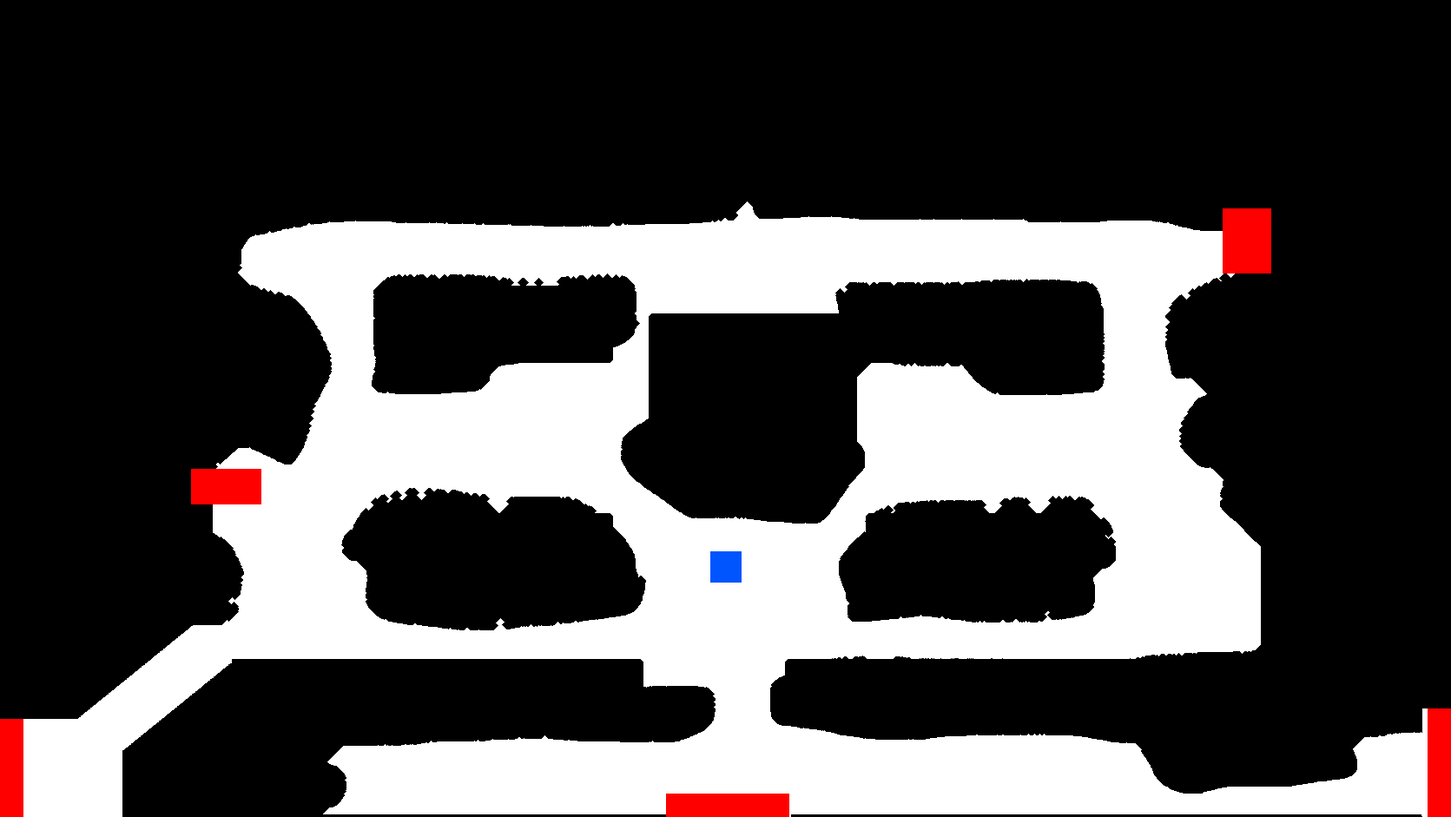
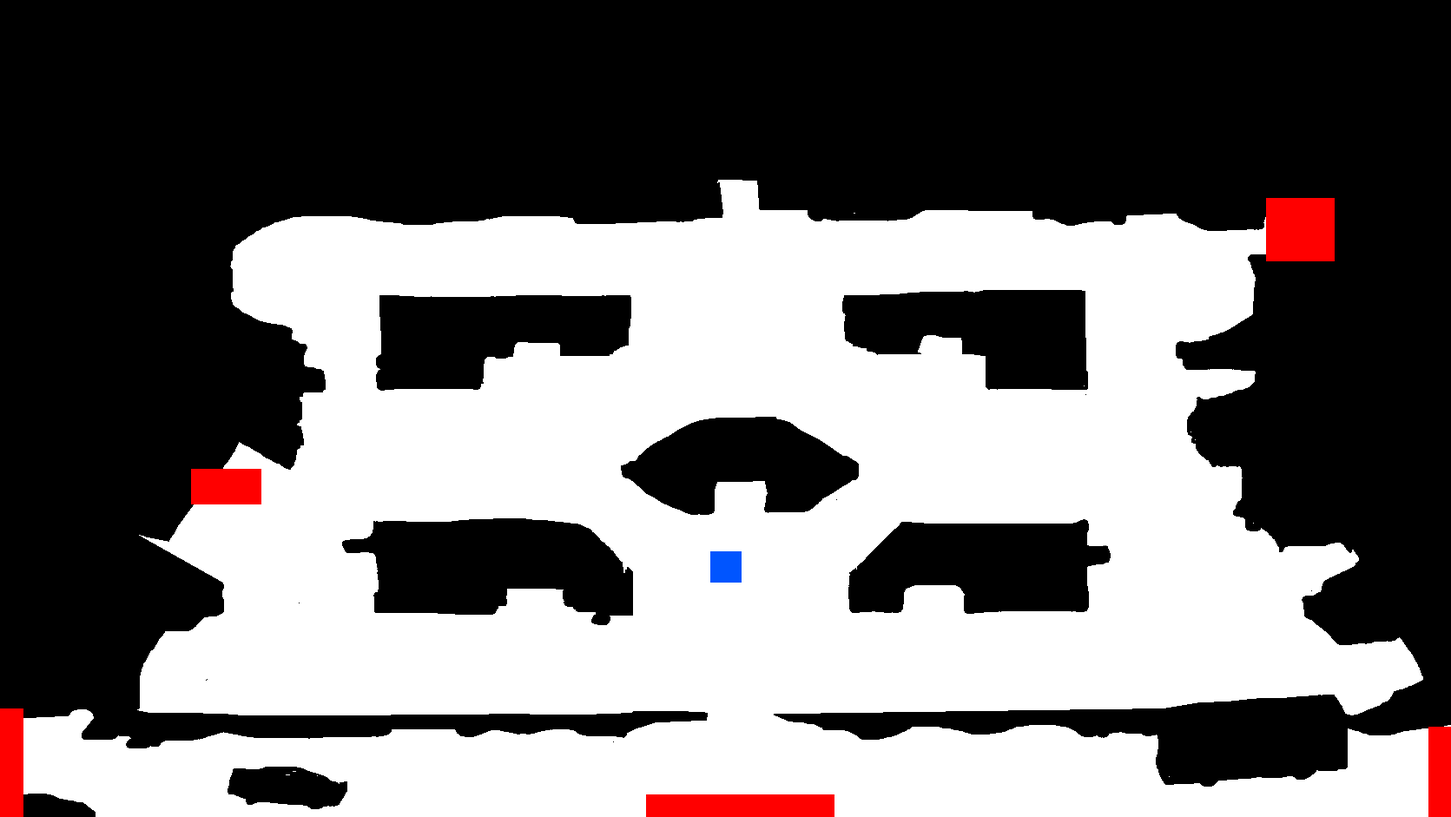
5 mapas pintados más y Sofía siempre en Plaza de Mayo durante su misión
Mapas con capas de Thiriang: Plaza de Mayo, Plaza del Congreso y los 3 del PvP
(campamento azul, campamento rojo, ruinas y búnkeres). Salidas sobre sus líneas verdes.
Congreso se une con Av. Rivadavia por la calle de arriba.

Sofía (buena) solo aparecía 20 minutos de cada hora; ahora siempre está cuando
la misión te manda a hablar con ella.

Claude-Session: https://claude.ai/code/session_01VGCmBo3CsU2Xq1dNwQVK9W

diff --git a/www/cenizas-maps.js b/www/cenizas-maps.js
@@ -14,7 +14,7 @@ window.CZ_MAPS = {
   patio: {"name": "PATIO FERROVIARIO · CABALLITO", "img": "/a/m/patio.jpg", "mask": "/a/m/patio-mask.png", "w": 1670, "h": 941, "dark": 0.46, "lv": [8, 14], "spawn": [732, 523], "exits": [{"id": "haedo", "r": [6, 384, 24, 504], "to": "interHaedo", "toExit": "patio", "label": "INTERSECCIÓN DE HAEDO", "side": "l"}, {"id": "once", "r": [1251, 837, 1669, 940], "to": "estOnce", "toExit": "patio", "label": "ESTACIÓN ONCE", "side": "d"}, {"id": "x1", "r": [831, 255, 918, 348], "to": "complejo8c", "toExit": "salida", "label": "COMPLEJO 8C"}, {"id": "x2", "r": [1527, 312, 1638, 336], "to": "modulo3", "toExit": "salida", "label": "MÓDULO FERROVIARIO 3", "side": "r"}, {"id": "x3", "r": [0, 606, 26, 786], "to": "modulo2", "toExit": "oeste", "label": "MÓDULO FERROVIARIO 2", "side": "l"}], "mobs": {"errante": 4, "corredor": 2, "perro": 2, "sombra": 2}, "spawnFijo": true, "npcs": [{"k": "arshi", "nm": "ARSHI", "line": "Armas probadas. Bueno, casi todas.", "shop": [["cuchillo", 8], ["bate", 10], ["lanza", 14], ["pistola", 25], ["katana", 40]], "x": 1411, "y": 419, "act": null, "fac": null}, {"k": "azu", "nm": "AZU", "line": "No preguntes de dónde salieron.", "x": 1489, "y": 449, "act": null, "fac": null}, {"k": "jem", "nm": "JEM", "line": "Perdí mi credencial cuando nos atacaron. Si la ves...", "quest": {"id": "jem_cred", "need": {"credencial": 1}, "give": {"items": {"katana": 1}}, "txt": "Un Corredor se llevó mi credencial. Traémela.", "done": "Gracias. Llevate esto, a mí ya no me sirve."}, "x": 627, "y": 418, "act": null, "fac": null}, {"k": "renzo", "nm": "RENZO", "line": "Sam, no te alejes.", "x": 700, "y": 439, "act": null, "fac": null}, {"k": "sam", "nm": "SAM", "line": "Estoy bien, Renzo.", "x": 762, "y": 428, "act": null, "fac": null}], "occ": [[557, 243, 30, 123, 365, 0], [847, 252, 86, 124, 375, 125], [618, 384, 27, 14, 397, 251], [1071, 272, 38, 162, 433, 267], [372, 370, 236, 75, 444, 431], [934, 378, 307, 229, 606, 508], [0, 267, 555, 400, 666, 739], [0, 684, 151, 132, 815, 1141], [182, 775, 101, 45, 819, 1275], [347, 748, 47, 167, 914, 1322], [389, 815, 530, 126, 940, 1491]], "occTop": true},
   estOnce: {"name": "ESTACIÓN ONCE", "img": "/a/m/estOnce.jpg", "mask": "/a/m/estOnce-mask.png", "w": 1672, "h": 941, "dark": 0.4, "lv": [10, 16], "spawn": [829, 497], "exits": [{"id": "patio", "r": [0, 357, 26, 672], "to": "patio", "toExit": "once", "label": "PATIO FERROVIARIO", "side": "l"}, {"id": "riv", "r": [1362, 708, 1671, 940], "to": "rivadavia", "toExit": "once", "label": "AV. RIVADAVIA", "side": "r"}, {"id": "x1", "r": [192, 495, 309, 546], "to": "subte_arena", "toExit": "salida", "label": "SUBTE · ARENA SUBTERRÁNEA"}], "mobs": {"errante": 4, "corredor": 2, "perro": 2, "sombra": 2}, "spawnFijo": true, "npcs": [{"k": "laura", "nm": "LAURA", "line": "¡Shh! Están cerca. No veo nada acá abajo.", "quest": {"id": "laura_luz", "need": {"linterna": 1}, "give": {"items": {"pista": 1}, "xp": 80}, "txt": "Necesito una linterna para salir de acá.", "done": "Gracias. Vi esto tirado cerca de los andenes."}, "x": 191, "y": 385, "act": null, "fac": null}], "occ": [[551, 407, 84, 56, 462, 0], [682, 390, 114, 116, 505, 58], [493, 504, 5, 30, 533, 176], [801, 490, 71, 52, 541, 208], [537, 512, 6, 34, 545, 262], [579, 524, 8, 34, 557, 298], [626, 538, 5, 27, 564, 334], [399, 175, 1067, 401, 575, 363], [703, 557, 7, 33, 589, 766], [751, 571, 8, 32, 602, 801], [801, 585, 6, 36, 620, 835], [846, 597, 8, 36, 632, 873], [897, 610, 9, 35, 644, 911], [1255, 610, 83, 52, 661, 948], [944, 433, 94, 237, 669, 1002], [1030, 523, 211, 193, 715, 1241], [0, 269, 533, 507, 775, 1436], [1314, 719, 77, 60, 778, 1945], [1380, 512, 191, 270, 781, 2007], [291, 745, 90, 54, 798, 2279], [738, 662, 377, 195, 856, 2335], [418, 615, 187, 245, 859, 2532], [644, 856, 36, 43, 898, 2779], [818, 905, 19, 22, 926, 2824], [1497, 714, 175, 227, 940, 2848], [869, 881, 119, 60, 940, 3077]], "occTop": true},
   rivadavia: {"name": "AV. RIVADAVIA · ONCE", "img": "/a/m/rivadavia.jpg", "mask": "/a/m/rivadavia-mask.png", "w": 1672, "h": 941, "dark": 0.38, "lv": [11, 17], "spawn": [836, 784], "exits": [{"id": "congreso", "r": [333, 915, 1308, 940], "to": "congreso", "toExit": "riv", "label": "PLAZA DEL CONGRESO", "side": "d"}, {"id": "once", "r": [1305, 270, 1353, 384], "to": "estOnce", "toExit": "riv", "label": "ESTACIÓN ONCE"}, {"id": "p1", "r": [462, 258, 519, 378], "to": null, "label": "CAMINO PELIGROSO"}], "mobs": {"errante": 4, "corredor": 2, "perro": 2, "sombra": 2}, "spawnFijo": true, "npcs": [{"k": "luis", "nm": "LUIS", "line": "Pasá, que hay de todo.", "shop": [["vendas", 3], ["pilas", 2], ["linterna", 12], ["mascara", 18]], "x": 522, "y": 627, "act": null, "fac": null}, {"k": "toby", "nm": "TOBÍAS", "line": "Lo que necesites, lo conseguimos.", "x": 574, "y": 700, "act": null, "fac": null}], "occ": [[1161, 181, 151, 79, 259, 0], [534, 237, 51, 24, 260, 81], [976, 260, 18, 40, 299, 107], [689, 266, 21, 34, 299, 149], [1155, 284, 3, 20, 303, 185], [1032, 285, 4, 20, 304, 207], [1004, 272, 4, 34, 305, 229], [564, 281, 6, 25, 305, 265], [1108, 284, 4, 22, 305, 292], [745, 285, 5, 21, 305, 316], [647, 281, 5, 26, 306, 339], [940, 284, 4, 25, 308, 367], [790, 285, 4, 24, 308, 394], [520, 281, 6, 29, 309, 420], [893, 285, 3, 25, 309, 451], [908, 375, 71, 50, 424, 478], [530, 145, 830, 336, 480, 530], [599, 550, 22, 41, 590, 868], [609, 632, 6, 34, 665, 911], [1051, 634, 5, 32, 665, 947], [1060, 699, 7, 31, 729, 981], [595, 690, 26, 46, 735, 1014], [452, 500, 178, 404, 903, 1062], [1038, 546, 163, 382, 927, 1468]], "occTop": true},
-  congreso: {"name": "PLAZA DEL CONGRESO", "img": "/a/m/congreso.jpg", "mask": "/a/m/congreso-mask.png", "w": 1671, "h": 941, "dark": 0.4, "lv": [13, 20], "spawn": [634, 596], "exits": [{"id": "express", "r": [1644, 136, 1670, 223], "to": "express", "toExit": "congreso", "label": "ESQUINA EXPRESS", "side": "r"}, {"id": "riv", "r": [301, 0, 345, 26], "to": "rivadavia", "toExit": "congreso", "label": "AV. RIVADAVIA", "side": "u"}, {"id": "x1", "r": [0, 756, 26, 940], "to": null, "toExit": null, "label": "CAMINO PELIGROSO", "side": "l"}, {"id": "x2", "r": [1644, 780, 1670, 940], "to": null, "toExit": null, "label": "CAMINO PELIGROSO", "side": "r"}, {"id": "x3", "r": [685, 914, 1079, 940], "to": null, "toExit": null, "label": "CAMINO PELIGROSO", "side": "d"}], "mobs": {"errante": 4, "corredor": 2, "perro": 2, "sombra": 2}, "spawnFijo": true, "npcs": [{"k": "cin", "nm": "CINTIA", "line": "La resistencia necesita pruebas.", "fac": "rebel", "quest": {"id": "congreso_pistas", "need": {"pista_reb": 5}, "give": {"items": {"chaleco": 1}, "coins": 60}, "txt": "Juntá 5 pistas rebeldes y te equipamos.", "done": "Con esto vas a aguantar más que nosotros."}, "x": 455, "y": 342, "act": null}, {"k": "romina", "nm": "ROMINA", "line": "No confíes en nadie que venga del puerto.", "fac": "rebel", "x": 602, "y": 403, "act": null}, {"k": "mariano", "nm": "MARIANO", "line": "Organizamos rutas para sacar gente.", "fac": "rebel", "x": 679, "y": 387, "act": null}], "occ": [[973, 138, 39, 32, 169, 0], [622, 157, 66, 34, 190, 34], [787, 163, 41, 42, 204, 70], [972, 166, 32, 58, 223, 114], [672, 177, 31, 47, 223, 174], [1007, 179, 27, 46, 224, 223], [403, 189, 45, 35, 223, 271], [1452, 190, 27, 67, 256, 308], [788, 192, 24, 42, 233, 377], [1163, 200, 38, 32, 231, 421], [341, 201, 24, 38, 238, 455], [517, 203, 31, 44, 246, 495], [395, 206, 42, 31, 236, 541], [365, 214, 44, 26, 239, 574], [803, 228, 25, 48, 275, 602], [1224, 233, 28, 50, 282, 652], [1151, 244, 31, 40, 283, 704], [990, 261, 39, 28, 288, 746], [322, 324, 40, 35, 358, 776], [1179, 342, 41, 27, 368, 813], [337, 365, 38, 35, 399, 842], [927, 393, 43, 41, 433, 879], [836, 430, 39, 26, 455, 922], [1434, 451, 23, 78, 528, 950], [190, 533, 39, 43, 575, 1030], [1160, 605, 35, 29, 633, 1075], [641, 625, 44, 24, 648, 1106], [265, 705, 30, 46, 750, 1132], [1061, 713, 24, 41, 753, 1180], [157, 725, 44, 26, 750, 1223], [227, 738, 32, 48, 785, 1251], [291, 766, 42, 26, 791, 1301], [683, 775, 83, 31, 805, 1329], [591, 784, 88, 23, 806, 1362], [1043, 785, 43, 31, 815, 1387], [382, 846, 54, 32, 877, 1420], [461, 859, 28, 50, 908, 1454], [447, 903, 31, 38, 940, 1506]]},
+  congreso: {"name": "PLAZA DEL CONGRESO", "img": "/a/m/congreso.jpg", "mask": "/a/m/congreso-mask.png", "w": 1671, "h": 941, "dark": 0.4, "lv": [13, 20], "spawn": [634, 596], "exits": [{"id": "express", "r": [1645, 63, 1670, 258], "to": "express", "toExit": "congreso", "label": "ESQUINA EXPRESS", "side": "r"}, {"id": "riv", "r": [708, 0, 1113, 26], "to": "rivadavia", "toExit": "congreso", "label": "AV. RIVADAVIA", "side": "u"}, {"id": "p1", "r": [0, 63, 26, 228], "to": null, "label": "CAMINO PELIGROSO"}, {"id": "p2", "r": [0, 744, 26, 915], "to": null, "label": "CAMINO PELIGROSO"}, {"id": "p3", "r": [1645, 783, 1670, 936], "to": null, "label": "CAMINO PELIGROSO"}, {"id": "p4", "r": [687, 915, 1089, 940], "to": null, "label": "CAMINO PELIGROSO"}], "mobs": {"errante": 4, "corredor": 2, "perro": 2, "sombra": 2}, "spawnFijo": true, "npcs": [{"k": "cin", "nm": "CINTIA", "line": "La resistencia necesita pruebas.", "fac": "rebel", "quest": {"id": "congreso_pistas", "need": {"pista_reb": 5}, "give": {"items": {"chaleco": 1}, "coins": 60}, "txt": "Juntá 5 pistas rebeldes y te equipamos.", "done": "Con esto vas a aguantar más que nosotros."}, "x": 455, "y": 342, "act": null}, {"k": "romina", "nm": "ROMINA", "line": "No confíes en nadie que venga del puerto.", "fac": "rebel", "x": 602, "y": 403, "act": null}, {"k": "mariano", "nm": "MARIANO", "line": "Organizamos rutas para sacar gente.", "fac": "rebel", "x": 679, "y": 387, "act": null}], "occ": [[1020, 6, 23, 80, 85, 0], [768, 16, 16, 72, 87, 82], [1374, 89, 104, 23, 111, 156], [1133, 117, 201, 47, 163, 181], [430, 195, 41, 33, 227, 230], [352, 191, 64, 59, 249, 265], [0, 0, 326, 253, 252, 326], [1533, 97, 138, 164, 260, 581], [1403, 161, 72, 104, 264, 747], [963, 144, 431, 126, 269, 853], [480, 111, 434, 170, 280, 981], [668, 281, 41, 128, 408, 1153], [273, 268, 101, 163, 430, 1283], [745, 311, 336, 169, 479, 1448], [1059, 483, 25, 38, 520, 1619], [1437, 402, 41, 129, 530, 1659], [450, 516, 149, 27, 542, 1790], [1251, 518, 157, 26, 543, 1819], [141, 487, 121, 99, 585, 1847], [1463, 614, 5, 33, 646, 1948], [588, 497, 244, 182, 678, 1983], [402, 629, 34, 65, 693, 2167], [972, 502, 281, 300, 801, 2234], [286, 705, 43, 98, 802, 2536], [724, 676, 43, 131, 806, 2636], [1204, 792, 5, 16, 807, 2769], [1436, 790, 7, 20, 809, 2787], [344, 792, 7, 18, 809, 2809], [1087, 793, 6, 17, 809, 2829], [400, 791, 9, 20, 810, 2848], [1292, 792, 6, 20, 811, 2870], [458, 793, 5, 19, 811, 2892], [781, 794, 5, 18, 811, 2913], [154, 739, 117, 74, 812, 2933], [576, 793, 9, 20, 812, 3009], [1184, 793, 6, 20, 812, 3031], [594, 730, 130, 88, 817, 3053], [1330, 804, 69, 15, 818, 3143], [0, 861, 708, 80, 940, 3160], [1067, 888, 604, 53, 940, 3242]], "occTop": true},
   express: {"name": "ESQUINA EXPRESS", "img": "/a/m/express.jpg", "mask": "/a/m/express-mask.png", "w": 1671, "h": 941, "dark": 0.4, "lv": [15, 22], "spawn": [732, 575], "exits": [{"id": "estatua", "r": [735, 0, 842, 26], "to": "estatua", "toExit": "abajo", "label": "LA ESTATUA", "side": "u"}, {"id": "congreso", "r": [1644, 794, 1670, 843], "to": "congreso", "toExit": "express", "label": "PLAZA DEL CONGRESO", "side": "r"}, {"id": "portena", "r": [1644, 462, 1670, 590], "to": "portena", "toExit": "express", "label": "INTERSECCIÓN PORTEÑA", "side": "r"}, {"id": "x1", "r": [1644, 248, 1670, 363], "to": null, "toExit": null, "label": "CAMINO PELIGROSO", "side": "r"}, {"id": "x2", "r": [0, 716, 26, 844], "to": null, "toExit": null, "label": "CAMINO PELIGROSO", "side": "l"}], "mobs": {"errante": 4, "corredor": 2, "perro": 2, "sombra": 2}, "spawnFijo": true, "npcs": [{"k": "gusty", "nm": "GUSTI", "line": "Tengo lo que buscás. Seguro.", "shop": [["campera", 12], ["chaleco", 25], ["cigarrillo", 4], ["vendas", 3]], "x": 1045, "y": 548, "act": null, "fac": null}], "occ": [[407, 705, 186, 118, 822, 0], [434, 853, 155, 84, 936, 120], [831, 445, 107, 54, 498, 206], [966, 320, 155, 84, 403, 262], [850, 64, 57, 84, 147, 348], [1222, 365, 75, 106, 470, 434], [482, 347, 37, 81, 427, 542], [701, 907, 30, 19, 925, 625], [1363, 435, 46, 22, 456, 646], [1427, 735, 23, 107, 841, 670], [1354, 365, 50, 78, 442, 779], [880, 291, 85, 51, 341, 859], [237, 530, 51, 91, 620, 912], [826, 207, 62, 38, 244, 1005], [1362, 769, 66, 61, 829, 1045], [751, 797, 56, 85, 881, 1108], [621, 153, 95, 54, 206, 1195], [1296, 742, 60, 32, 773, 1251], [177, 789, 36, 88, 876, 1285], [506, 289, 85, 47, 335, 1375], [438, 504, 97, 98, 601, 1424], [770, 183, 47, 90, 272, 1524], [48, 732, 48, 24, 755, 1616], [96, 725, 48, 19, 743, 1642], [96, 872, 48, 27, 898, 1663], [144, 714, 48, 18, 731, 1692], [144, 874, 48, 22, 895, 1712], [192, 700, 48, 12, 711, 1736], [384, 593, 48, 17, 609, 1750], [432, 593, 48, 43, 635, 1769], [528, 308, 48, 13, 320, 1814], [816, 36, 48, 203, 238, 1829], [1296, 772, 48, 19, 790, 2034], [1344, 838, 48, 61, 898, 2055], [1392, 840, 48, 14, 853, 2118], [1488, 495, 48, 189, 683, 2134], [1536, 507, 48, 202, 708, 2325], [1584, 573, 48, 220, 792, 2529], [1632, 591, 39, 203, 793, 2751]]},
   estatua: {"name": "LA ESTATUA", "img": "/a/m/estatua.jpg", "mask": "/a/m/estatua-mask.png", "w": 1672, "h": 941, "dark": 0.4, "lv": [17, 25], "spawn": [1045, 523], "exits": [{"id": "abajo", "r": [991, 914, 1298, 940], "to": "express", "toExit": "estatua", "label": "ESQUINA EXPRESS", "side": "d"}, {"id": "mayo", "r": [0, 0, 26, 55], "to": "plazaMayo", "toExit": "estatua", "label": "PLAZA DE MAYO", "side": "l"}, {"id": "x1", "r": [849, 0, 1191, 26], "to": null, "toExit": null, "label": "CAMINO PELIGROSO", "side": "u"}, {"id": "x2", "r": [1645, 345, 1671, 468], "to": null, "toExit": null, "label": "CAMINO PELIGROSO", "side": "r"}, {"id": "x3", "r": [1645, 565, 1671, 604], "to": null, "toExit": null, "label": "CAMINO PELIGROSO", "side": "r"}, {"id": "x4", "r": [0, 701, 26, 843], "to": null, "toExit": null, "label": "CAMINO PELIGROSO", "side": "l"}], "mobs": {"errante": 4, "corredor": 2, "perro": 2, "sombra": 2}, "spawnFijo": true, "occ": [[759, 479, 183, 222, 700, 0], [629, 657, 146, 127, 783, 224], [934, 657, 146, 127, 783, 353], [254, 676, 128, 73, 748, 482], [381, 515, 69, 89, 603, 557], [1325, 690, 46, 46, 735, 648], [1136, 382, 73, 49, 430, 696], [811, 486, 99, 61, 546, 747], [1263, 338, 69, 89, 426, 810], [116, 666, 20, 80, 745, 901], [275, 419, 22, 34, 452, 983], [242, 257, 14, 34, 290, 1019], [1478, 528, 36, 51, 578, 1055], [571, 258, 39, 67, 324, 1108], [1377, 536, 50, 80, 615, 1177], [264, 350, 68, 38, 387, 1259], [194, 760, 46, 92, 851, 1299], [144, 816, 45, 36, 851, 1393], [1126, 52, 24, 79, 130, 1431], [563, 817, 78, 48, 864, 1512], [207, 195, 25, 42, 236, 1562], [0, 481, 48, 220, 700, 1606], [48, 494, 48, 220, 713, 1828], [96, 496, 48, 220, 715, 2050], [144, 493, 48, 220, 712, 2272], [240, 310, 48, 94, 403, 2494], [240, 427, 48, 158, 584, 2590], [288, 497, 48, 45, 541, 2750], [1152, 142, 48, 220, 361, 2797], [1392, 679, 48, 134, 812, 3019], [1488, 586, 48, 40, 625, 3155], [1536, 574, 48, 33, 606, 3197], [1584, 575, 48, 31, 605, 3232]]},
   portena: {"name": "INTERSECCIÓN PORTEÑA", "img": "/a/m/portena.jpg", "mask": "/a/m/portena-mask.png", "w": 1670, "h": 941, "dark": 0.4, "lv": [16, 23], "spawn": [418, 497], "exits": [{"id": "express", "r": [592, 0, 858, 26], "to": "express", "toExit": "portena", "label": "ESQUINA EXPRESS", "side": "u"}, {"id": "estatua", "r": [1318, 0, 1545, 26], "to": "estatua", "toExit": "abajo", "label": "LA ESTATUA", "side": "u"}, {"id": "urbano", "r": [496, 914, 1040, 940], "to": "urbanoBA", "toExit": "portena", "label": "CUADRA PORTEÑA", "side": "d"}, {"id": "x1", "r": [0, 425, 26, 654], "to": null, "toExit": null, "label": "CAMINO PELIGROSO", "side": "l"}, {"id": "x2", "r": [1643, 459, 1669, 729], "to": null, "toExit": null, "label": "CAMINO PELIGROSO", "side": "r"}], "mobs": {"errante": 4, "corredor": 2, "perro": 2, "sombra": 2}, "spawnFijo": true, "occ": [[1178, 511, 185, 95, 605, 0], [596, 356, 49, 42, 397, 97], [125, 353, 71, 60, 412, 141], [1413, 551, 98, 65, 615, 203], [889, 329, 56, 82, 410, 270], [952, 331, 56, 82, 412, 354], [611, 125, 41, 77, 201, 438], [223, 529, 37, 83, 611, 517], [1288, 691, 73, 41, 731, 602], [1141, 204, 102, 114, 317, 645], [467, 711, 58, 93, 803, 761], [524, 309, 78, 58, 366, 856], [794, 307, 65, 49, 355, 916], [1336, 660, 75, 48, 707, 967], [1389, 383, 16, 42, 424, 1017], [971, 669, 129, 66, 734, 1061], [1264, 176, 64, 39, 214, 1129], [1204, 675, 74, 55, 729, 1170], [132, 586, 66, 45, 630, 1227], [0, 655, 48, 18, 672, 1274], [48, 651, 48, 15, 665, 1294], [96, 652, 48, 21, 672, 1311], [576, 42, 48, 167, 208, 1334], [576, 304, 48, 16, 319, 1503], [816, 27, 48, 17, 43, 1521], [816, 84, 48, 42, 125, 1540], [816, 203, 48, 16, 218, 1584], [816, 274, 48, 69, 342, 1602], [960, 833, 48, 15, 847, 1673], [1008, 750, 48, 161, 910, 1690], [1056, 742, 48, 131, 872, 1853], [1056, 896, 48, 33, 928, 1986], [1200, 95, 48, 169, 263, 2021], [1248, 85, 48, 137, 221, 2192], [1296, 125, 48, 11, 135, 2331], [1296, 148, 48, 18, 165, 2344], [1392, 339, 48, 70, 408, 2364], [1440, 252, 48, 220, 471, 2436], [1488, 265, 48, 220, 484, 2658], [1536, 254, 48, 220, 473, 2880], [1632, 431, 38, 28, 458, 3102]]},
@@ -22,7 +22,7 @@ window.CZ_MAPS = {
   esperanza: {"fire": [1379, 575], "name": "ESQUINA DEL FUEGO", "img": "/a/m/esperanza.jpg", "mask": "/a/m/esperanza-mask.png", "w": 1672, "h": 941, "dark": 0.44, "lv": [20, 28], "spawn": [627, 627], "exits": [{"id": "urbano", "r": [1358, 0, 1481, 26], "to": "urbanoBA", "toExit": "esperanza", "label": "CUADRA PORTEÑA", "side": "u"}, {"id": "abandono", "r": [341, 914, 1033, 940], "to": "abandono", "toExit": "esperanza", "label": "ESQUINA DEL PORTÓN", "side": "d"}, {"id": "x1", "r": [0, 425, 26, 614], "to": "bar_humo", "toExit": "salida", "label": "BAR DE HUMO", "side": "l"}, {"id": "x2", "r": [1645, 661, 1671, 845], "to": null, "toExit": null, "label": "CAMINO PELIGROSO", "side": "r"}], "mobs": {"errante": 3, "corredor": 3, "sombra": 3, "denso": 1, "rastrero": 2}, "spawnFijo": true, "npcs": [{"k": "mariela", "nm": "MARIELA", "line": "¿Fumás?", "quest": {"id": "fuego_puchos", "need": {"cigarrillo": 3}, "give": {"items": {"mascara": 1}}, "txt": "Traenos 3 cigarrillos y te damos algo útil.", "done": "Tomá, con esto respirás mejor en los túneles."}, "x": 679, "y": 601, "act": null, "fac": null}, {"k": "carolina", "nm": "CAROLINA", "line": "Acá por lo menos hay fuego.", "x": 752, "y": 616, "act": null, "fac": null}], "occ": [[153, 743, 81, 45, 787, 0], [1310, 605, 129, 53, 657, 47], [306, 678, 41, 76, 753, 102], [1208, 257, 74, 92, 348, 180], [265, 691, 34, 47, 737, 274], [429, 513, 47, 76, 588, 323], [1243, 533, 47, 74, 606, 401], [827, 456, 58, 28, 483, 477], [340, 511, 44, 70, 580, 507], [270, 523, 32, 48, 570, 579], [1149, 371, 82, 39, 409, 629], [41, 703, 107, 51, 753, 670], [1335, 644, 53, 37, 680, 723], [0, 382, 48, 17, 398, 762], [48, 498, 48, 27, 524, 781], [192, 791, 48, 126, 916, 810], [240, 742, 48, 168, 909, 938], [288, 527, 48, 33, 559, 1108], [288, 742, 48, 171, 912, 1143], [336, 532, 48, 35, 566, 1316], [336, 836, 48, 39, 874, 1353], [336, 899, 48, 15, 913, 1394], [384, 500, 48, 13, 512, 1411], [384, 536, 48, 38, 573, 1426], [432, 545, 48, 16, 560, 1466], [432, 780, 48, 14, 793, 1484], [432, 842, 48, 60, 901, 1500], [480, 895, 48, 19, 913, 1562], [528, 900, 48, 14, 913, 1583], [576, 891, 48, 23, 913, 1599], [816, 865, 48, 49, 913, 1624], [864, 415, 48, 33, 447, 1675], [864, 875, 48, 39, 913, 1710], [1152, 468, 48, 56, 523, 1751], [1200, 404, 48, 163, 566, 1809], [1248, 369, 48, 220, 588, 1974], [1296, 379, 48, 220, 598, 2196], [1344, 410, 48, 220, 629, 2418], [1344, 779, 48, 73, 851, 2640], [1392, 425, 48, 220, 644, 2715], [1392, 664, 48, 44, 707, 2937], [1440, 439, 48, 220, 658, 2983], [1488, 437, 48, 220, 656, 3205], [1488, 694, 48, 20, 713, 3427], [1584, 689, 48, 40, 728, 3449], [1584, 825, 48, 52, 876, 3491], [1584, 906, 48, 18, 923, 3545], [1632, 630, 40, 31, 660, 3565], [1632, 846, 40, 43, 888, 3598], [1632, 910, 40, 20, 929, 3643]]},
   abandono: {"name": "ESQUINA DEL PORTÓN", "img": "/a/m/abandono.jpg", "mask": "/a/m/abandono-mask.png", "w": 1672, "h": 941, "dark": 0.46, "lv": [22, 30], "spawn": [836, 784], "exits": [{"id": "esperanza", "r": [1645, 648, 1671, 940], "to": "esperanza", "toExit": "abandono", "label": "ESQUINA DEL FUEGO", "side": "r"}, {"id": "lezama", "r": [240, 914, 679, 940], "to": "lezama", "toExit": "abandono", "label": "PARQUE LEZAMA", "side": "d"}], "mobs": {"errante": 3, "corredor": 3, "sombra": 3, "denso": 1, "rastrero": 2}, "spawnFijo": true, "npcs": [{"k": "ani", "nm": "ANI", "line": "Lanzas y una capa que te hace desaparecer. ¿Qué querés?", "cada": true, "shop": [["lanza", 12], ["kitsune", 20]], "x": 470, "y": 595, "act": null, "fac": null}]},
   lezama: {"name": "PARQUE LEZAMA · CAMPAMENTO ORK", "img": "/a/m/lezama.jpg", "mask": "/a/m/lezama-mask.png", "w": 1671, "h": 941, "dark": 0.42, "lv": [26, 34], "spawn": [784, 627], "exits": [{"id": "abandono", "r": [730, 914, 884, 940], "to": "abandono", "toExit": "lezama", "label": "ESQUINA DEL PORTÓN", "side": "d"}, {"id": "x1", "r": [1322, 914, 1397, 940], "to": "campo_ruinas", "toExit": "oeste", "label": "CAMPAMENTO EN RUINAS", "side": "d"}], "mobs": {"errante": 3, "corredor": 3, "sombra": 3, "denso": 1, "rastrero": 2}, "spawnFijo": true, "occ": [[209, 231, 450, 206, 436, 0], [1138, 572, 228, 110, 681, 208], [1247, 413, 199, 106, 518, 320], [965, 438, 124, 80, 517, 428], [448, 660, 87, 34, 693, 510], [714, 38, 183, 88, 125, 546], [1026, 511, 87, 34, 544, 636], [1143, 673, 87, 34, 706, 672], [742, 163, 75, 55, 217, 708], [1631, 266, 39, 52, 317, 765], [145, 243, 57, 102, 344, 819], [1540, 392, 28, 67, 458, 923], [1455, 448, 39, 51, 498, 992], [759, 332, 79, 87, 418, 1045], [690, 741, 56, 34, 774, 1134], [1285, 694, 77, 63, 756, 1170], [1465, 617, 81, 98, 714, 1235], [649, 86, 45, 76, 161, 1335], [705, 403, 50, 40, 442, 1413], [933, 540, 29, 85, 624, 1455], [727, 47, 52, 31, 77, 1542], [311, 567, 43, 90, 656, 1575], [96, 398, 48, 145, 542, 1667], [144, 426, 48, 104, 529, 1814], [240, 238, 48, 41, 278, 1920], [240, 511, 48, 82, 592, 1963], [288, 516, 48, 11, 526, 2047], [288, 550, 48, 73, 622, 2060], [336, 534, 48, 100, 633, 2135], [384, 537, 48, 92, 628, 2237], [432, 570, 48, 41, 610, 2331], [576, 144, 48, 34, 177, 2374], [624, 69, 48, 18, 86, 2410], [624, 157, 48, 26, 182, 2430], [672, 234, 48, 49, 282, 2458], [672, 763, 48, 174, 936, 2509], [720, 239, 48, 47, 285, 2685], [720, 440, 48, 66, 505, 2734], [720, 806, 48, 14, 819, 2802], [768, 420, 48, 87, 506, 2818], [816, 446, 48, 30, 475, 2907], [864, 421, 48, 50, 470, 2939], [864, 740, 48, 121, 860, 2991], [864, 888, 48, 22, 909, 3114], [912, 325, 48, 12, 336, 3138], [912, 569, 48, 41, 609, 3152], [960, 226, 48, 133, 358, 3195], [960, 559, 48, 47, 605, 3330], [1008, 562, 48, 59, 620, 3379], [1056, 579, 48, 34, 612, 3440], [1152, 718, 48, 21, 738, 3476], [1344, 835, 48, 11, 845, 3499], [1392, 769, 48, 103, 871, 3512], [1440, 507, 48, 53, 559, 3617], [1488, 504, 48, 60, 563, 3672], [1536, 491, 48, 66, 556, 3734], [1584, 410, 48, 151, 560, 3802], [1632, 383, 39, 195, 577, 3955]]},
-  plazaMayo: {"name": "PLAZA DE MAYO", "img": "/a/m/plazaMayo.jpg", "mask": "/a/m/plazaMayo-mask.png", "w": 1671, "h": 941, "dark": 0.36, "lv": [18, 24], "spawn": [836, 653], "exits": [{"id": "muelle", "r": [1408, 240, 1463, 314], "to": "muelle", "toExit": "mayo", "label": "CAMPAMENTO DEL MUELLE"}, {"id": "nueve", "r": [767, 914, 908, 940], "to": "nueveJulio", "toExit": "mayo", "label": "AV. 9 DE JULIO", "side": "d"}, {"id": "refugio", "r": [0, 828, 26, 940], "to": "refugioSub", "toExit": "mayo", "label": "REFUGIO SUBTERRÁNEO", "side": "l"}, {"id": "estatua", "r": [1644, 816, 1670, 940], "to": "estatua", "toExit": "mayo", "label": "LA ESTATUA", "side": "r"}, {"id": "bar", "r": [220, 540, 300, 580], "to": "bar_rojo", "toExit": "salida", "label": "BAR DE LUZ ROJA"}], "safeAll": true, "npcs": [{"k": "rosa", "x": 1097, "y": 727, "nm": "ROSA", "line": "Elegí bien, chico.", "act": "shop", "fac": null}, {"k": "sofia_buena", "nm": "SOFÍA", "line": "¡No me dejes! ¡No me dejes!", "cada": true, "x": 522, "y": 501, "act": null, "fac": null}], "mobs": {}, "spawnFijo": true, "occ": [[1067, 250, 131, 138, 387, 0], [460, 256, 138, 144, 399, 140], [681, 263, 47, 61, 323, 286], [985, 271, 30, 74, 344, 349], [658, 274, 34, 76, 349, 425], [1018, 304, 28, 52, 355, 503], [680, 306, 31, 59, 364, 557], [820, 319, 74, 147, 465, 618], [996, 354, 46, 43, 396, 767], [815, 410, 49, 58, 467, 812], [1091, 484, 134, 99, 582, 872], [465, 481, 137, 62, 542, 973], [372, 490, 73, 80, 569, 1037], [1260, 510, 36, 29, 538, 1119], [1236, 516, 64, 94, 609, 1150], [550, 533, 53, 69, 601, 1246], [465, 536, 49, 70, 605, 1317], [412, 558, 28, 51, 608, 1389], [379, 568, 54, 74, 641, 1442], [538, 592, 27, 46, 637, 1518], [508, 621, 40, 26, 646, 1566], [319, 671, 53, 35, 705, 1594], [198, 672, 137, 140, 811, 1631], [1338, 684, 58, 45, 728, 1773], [1408, 684, 34, 41, 724, 1820], [1422, 707, 40, 48, 754, 1863], [1344, 711, 28, 43, 753, 1913], [987, 714, 64, 30, 743, 1958], [1019, 734, 51, 43, 776, 1990], [1405, 734, 43, 26, 759, 2035], [1339, 736, 81, 25, 760, 2063], [977, 737, 58, 37, 773, 2090], [694, 748, 58, 24, 771, 2129], [753, 748, 73, 51, 798, 2155], [593, 756, 59, 24, 779, 2208], [529, 757, 73, 23, 779, 2234], [451, 758, 56, 25, 782, 2259], [661, 777, 70, 24, 800, 2286], [449, 788, 126, 24, 811, 2312], [407, 789, 52, 24, 812, 2338], [277, 790, 65, 23, 812, 2364], [330, 790, 74, 23, 812, 2389]]},
+  plazaMayo: {"name": "PLAZA DE MAYO", "img": "/a/m/plazaMayo.jpg", "mask": "/a/m/plazaMayo-mask.png", "w": 1671, "h": 941, "dark": 0.36, "lv": [18, 24], "spawn": [836, 653], "exits": [{"id": "muelle", "r": [1458, 228, 1536, 300], "to": "muelle", "toExit": "mayo", "label": "CAMPAMENTO DEL MUELLE"}, {"id": "nueve", "r": [744, 915, 960, 940], "to": "nueveJulio", "toExit": "mayo", "label": "AV. 9 DE JULIO", "side": "d"}, {"id": "refugio", "r": [0, 816, 26, 940], "to": "refugioSub", "toExit": "mayo", "label": "REFUGIO SUBTERRÁNEO", "side": "l"}, {"id": "estatua", "r": [1645, 837, 1670, 940], "to": "estatua", "toExit": "mayo", "label": "LA ESTATUA", "side": "r"}, {"id": "bar", "r": [220, 540, 300, 580], "to": "bar_rojo", "toExit": "salida", "label": "BAR DE LUZ ROJA"}], "safeAll": true, "npcs": [{"k": "rosa", "x": 1097, "y": 727, "nm": "ROSA", "line": "Elegí bien, chico.", "act": "shop", "fac": null}, {"k": "sofia_buena", "nm": "SOFÍA", "line": "¡No me dejes! ¡No me dejes!", "cada": true, "x": 522, "y": 501, "act": null, "fac": null}], "mobs": {}, "spawnFijo": true, "occ": [[1451, 258, 87, 37, 294, 0], [976, 262, 277, 86, 347, 39], [435, 267, 295, 99, 365, 127], [1363, 310, 88, 84, 393, 228], [265, 328, 102, 99, 426, 314], [714, 350, 276, 187, 536, 415], [389, 506, 37, 117, 622, 604], [1251, 517, 36, 121, 637, 723], [428, 487, 300, 172, 658, 846], [975, 486, 281, 175, 660, 1020], [160, 608, 92, 63, 670, 1197], [1504, 630, 63, 60, 689, 1262], [888, 687, 754, 141, 827, 1324], [158, 686, 660, 143, 828, 1467], [268, 870, 130, 32, 901, 1612], [0, 876, 33, 64, 939, 1646], [28, 879, 47, 62, 940, 1712], [1582, 881, 89, 60, 940, 1776]], "occTop": true},
   refugioSub: {"fire": [867, 554], "name": "REFUGIO SUBTERRÁNEO", "img": "/a/m/refugioSub.jpg", "mask": "/a/m/refugioSub-mask.png", "w": 1670, "h": 942, "dark": 0.5, "lv": [20, 28], "spawn": [836, 732], "exits": [{"id": "mayo", "r": [0, 211, 26, 270], "to": "plazaMayo", "toExit": "refugio", "label": "PLAZA DE MAYO", "side": "l"}, {"id": "x1", "r": [1643, 135, 1669, 181], "to": null, "toExit": null, "label": "CAMINO PELIGROSO", "side": "r"}], "mobs": {"errante": 3, "corredor": 3, "sombra": 3, "denso": 1, "rastrero": 2}, "spawnFijo": true, "npcs": [{"k": "el_sabio", "nm": "EL SABIO", "line": "Hay residuos del tiempo en ese laboratorio. Traeme uno.", "quest": {"id": "sabio_frag", "need": {"fragmento": 1}, "give": {"ab": 1, "xp": 300}, "txt": "Traeme un fragmento temporal del laboratorio de Puerto Madero.", "done": "Cerrá los ojos. Ahora sabés algo que antes no sabías."}, "x": 673, "y": 656, "act": null, "fac": null}, {"k": "natsume", "nm": "NATSUME", "line": "Conocemos las rutas de mantenimiento.", "quest": {"id": "natsume_receptor", "need": {"receptor": 1}, "give": {"coins": 50, "items": {"pista": 1}}, "txt": "Necesitamos un receptor para escuchar las patrullas.", "done": "Ahora sabemos por dónde pasan. Tomá."}, "x": 1149, "y": 554, "act": null, "fac": null}, {"k": "rocio", "nm": "ROCÍO", "line": "La línea D se cayó hace años.", "x": 1222, "y": 575, "act": null, "fac": null}], "occ": [[921, 490, 50, 40, 529, 0], [1226, 579, 56, 71, 649, 42], [781, 685, 40, 32, 716, 115]]},
   nueveJulio: {"name": "AV. 9 DE JULIO · OBELISCO", "img": "/a/m/nueveJulio.jpg", "mask": "/a/m/nueveJulio-mask.png", "w": 1672, "h": 941, "dark": 0.42, "lv": [22, 30], "spawn": [418, 680], "exits": [{"id": "mayo", "r": [0, 436, 26, 500], "to": "plazaMayo", "toExit": "nueve", "label": "PLAZA DE MAYO", "side": "l"}, {"id": "teatro", "r": [1645, 177, 1671, 505], "to": "teatroAv", "toExit": "nueve", "label": "TEATRO SOBRE LA AVENIDA", "side": "r"}, {"id": "x1", "r": [0, 168, 26, 360], "to": null, "toExit": null, "label": "CAMINO PELIGROSO", "side": "l"}, {"id": "x2", "r": [0, 603, 26, 814], "to": null, "toExit": null, "label": "CAMINO PELIGROSO", "side": "l"}, {"id": "x3", "r": [1645, 604, 1671, 805], "to": null, "toExit": null, "label": "CAMINO PELIGROSO", "side": "r"}], "mobs": {"errante": 3, "corredor": 3, "sombra": 3, "denso": 1, "rastrero": 2}, "spawnFijo": true, "occ": [[761, 240, 155, 288, 527, 0], [653, 390, 105, 68, 457, 290], [606, 552, 174, 91, 642, 360], [929, 551, 174, 91, 641, 453], [916, 314, 160, 126, 439, 546], [812, 281, 71, 44, 324, 674], [1399, 558, 71, 44, 601, 720], [815, 505, 99, 56, 560, 766], [421, 757, 105, 68, 824, 824], [1376, 326, 89, 119, 444, 894], [943, 751, 105, 68, 818, 1015], [1498, 152, 34, 37, 188, 1085], [230, 511, 131, 68, 578, 1124], [401, 388, 48, 57, 444, 1194], [181, 749, 49, 50, 798, 1253], [499, 400, 76, 40, 439, 1305], [344, 218, 24, 113, 330, 1347], [1239, 212, 42, 118, 329, 1462], [813, 724, 104, 69, 792, 1582], [594, 754, 104, 70, 823, 1653], [371, 270, 74, 60, 329, 1725], [184, 415, 136, 119, 533, 1787], [1101, 500, 74, 57, 556, 1908], [0, 361, 48, 71, 431, 1967], [0, 512, 48, 91, 602, 2040], [48, 336, 48, 99, 434, 2133], [48, 505, 48, 111, 615, 2234], [96, 336, 48, 97, 432, 2347], [96, 506, 48, 110, 615, 2446], [144, 336, 48, 99, 434, 2558], [144, 506, 48, 110, 615, 2659], [192, 333, 48, 101, 433, 2771], [192, 504, 48, 124, 627, 2874], [240, 614, 48, 25, 638, 3000], [288, 334, 48, 97, 430, 3027], [288, 514, 48, 107, 620, 3126], [336, 335, 48, 100, 434, 3235], [336, 505, 48, 116, 620, 3337], [384, 334, 48, 97, 430, 3455], [384, 505, 48, 142, 646, 3554], [432, 333, 48, 100, 432, 3698], [432, 506, 48, 110, 615, 3800], [480, 334, 48, 101, 434, 3912], [480, 505, 48, 111, 615, 4015], [1152, 331, 48, 103, 433, 4128], [1152, 504, 48, 113, 616, 4233], [1200, 335, 48, 100, 434, 4348], [1200, 506, 48, 110, 615, 4450], [1248, 336, 48, 97, 432, 4562], [1248, 506, 48, 110, 615, 4661], [1296, 336, 48, 98, 433, 4773], [1296, 506, 48, 117, 622, 4873], [1344, 334, 48, 101, 434, 4992], [1344, 505, 48, 111, 615, 5095], [1344, 776, 48, 35, 810, 5208], [1392, 767, 48, 11, 777, 5245], [1488, 332, 48, 99, 430, 5258], [1488, 508, 48, 108, 615, 5359], [1536, 337, 48, 94, 430, 5469], [1536, 508, 48, 109, 616, 5565], [1584, 335, 48, 96, 430, 5676], [1584, 508, 48, 108, 615, 5774], [1632, 512, 40, 92, 603, 5884]]},
   teatroAv: {"name": "TEATRO SOBRE LA AVENIDA", "img": "/a/m/teatroAv.jpg", "mask": "/a/m/teatroAv-mask.png", "w": 1671, "h": 941, "dark": 0.42, "lv": [25, 33], "spawn": [836, 627], "exits": [{"id": "libertador", "r": [1644, 417, 1670, 849], "to": "libertador", "toExit": "teatro", "label": "CRUCE LIBERTADOR", "side": "r"}, {"id": "colonD", "r": [1270, 0, 1359, 26], "to": "colon", "toExit": "der", "label": "REFUGIO DEL COLÓN", "side": "u"}, {"id": "nueve", "r": [0, 411, 26, 754], "to": "nueveJulio", "toExit": "teatro", "label": "AV. 9 DE JULIO", "side": "l"}, {"id": "colonI", "r": [355, 0, 462, 26], "to": "colon", "toExit": "izq", "label": "REFUGIO DEL COLÓN", "side": "u"}, {"id": "x1", "r": [822, 914, 991, 940], "to": null, "toExit": null, "label": "CAMINO PELIGROSO", "side": "d"}, {"id": "teatro_int", "r": [780, 228, 900, 262], "to": "teatro_int", "toExit": "salida", "label": "TEATRO · INTERIOR"}], "mobs": {"errante": 3, "corredor": 3, "sombra": 3, "denso": 1, "rastrero": 2}, "spawnFijo": true, "occ": [[1221, 19, 45, 28, 46, 0], [1216, 45, 43, 66, 110, 30], [1255, 62, 47, 54, 115, 98], [1236, 96, 38, 41, 136, 154], [128, 183, 59, 50, 232, 197], [713, 346, 31, 52, 397, 249], [734, 372, 31, 39, 410, 303], [1038, 406, 38, 34, 439, 344], [1473, 436, 46, 24, 459, 380], [1436, 438, 50, 29, 466, 406], [1524, 438, 51, 42, 479, 437], [556, 441, 42, 25, 465, 481], [581, 446, 36, 44, 489, 508], [1163, 452, 45, 27, 478, 554], [0, 454, 41, 48, 501, 583], [519, 459, 26, 48, 506, 633], [1388, 459, 33, 38, 496, 683], [1468, 460, 69, 32, 491, 723], [1201, 461, 40, 79, 539, 757], [1303, 461, 41, 33, 493, 838], [1074, 462, 35, 56, 517, 873], [1142, 462, 31, 54, 515, 931], [1097, 463, 24, 46, 508, 987], [51, 466, 36, 77, 542, 1035], [1601, 466, 43, 41, 506, 1114], [667, 469, 28, 49, 517, 1157], [1388, 476, 81, 40, 515, 1208], [683, 477, 29, 41, 517, 1250], [1320, 479, 25, 38, 516, 1293], [1650, 480, 21, 59, 538, 1333], [1304, 486, 23, 37, 522, 1394], [520, 491, 47, 69, 559, 1433], [568, 493, 49, 61, 553, 1504], [1152, 499, 42, 59, 557, 1567], [667, 503, 25, 56, 558, 1628], [1082, 505, 29, 55, 559, 1686], [681, 516, 25, 42, 557, 1743], [1304, 516, 38, 48, 563, 1787], [1083, 542, 34, 29, 570, 1837], [539, 560, 48, 29, 588, 1868], [658, 630, 42, 34, 663, 1899], [631, 631, 43, 31, 661, 1935], [1289, 639, 69, 44, 682, 1968], [614, 643, 36, 39, 681, 2014], [682, 649, 28, 42, 690, 2055], [0, 654, 34, 37, 690, 2099], [1565, 663, 49, 116, 778, 2138], [613, 666, 26, 48, 713, 2256], [504, 667, 60, 64, 730, 2306], [551, 669, 39, 89, 757, 2372], [38, 672, 36, 51, 722, 2463], [784, 674, 37, 57, 730, 2516], [1076, 674, 33, 81, 754, 2575], [1592, 674, 25, 53, 726, 2658], [0, 677, 36, 79, 755, 2713], [360, 677, 25, 102, 778, 2794], [619, 677, 92, 88, 764, 2898], [1104, 681, 25, 91, 771, 2988], [1302, 681, 55, 76, 756, 3081], [774, 690, 27, 60, 749, 3159], [28, 703, 32, 58, 760, 3221], [1254, 703, 44, 73, 775, 3281], [48, 709, 26, 48, 756, 3356], [369, 709, 37, 63, 771, 3406], [1590, 711, 24, 49, 759, 3471], [790, 717, 26, 52, 768, 3522], [506, 719, 33, 39, 757, 3576], [520, 740, 31, 37, 776, 3617], [537, 741, 35, 33, 773, 3656], [771, 758, 47, 31, 788, 3691], [42, 761, 38, 28, 788, 3724]]},
@@ -44,9 +44,9 @@ window.CZ_MAPS = {
   modulo3: {"name": "MÓDULO FERROVIARIO 3", "img": "/a/m/modulo3.jpg", "mask": "/a/m/modulo3-mask.png", "w": 1672, "h": 941, "dark": 0.5, "lv": [28, 38], "spawn": [780, 660], "exits": [{"id": "vias", "r": [620, 0, 820, 26], "to": null, "toExit": null, "label": "CAMINO PELIGROSO", "side": "u"}, {"id": "oeste", "r": [0, 240, 26, 320], "to": "complejo8c", "toExit": "tunel", "label": "COMPLEJO 8C", "side": "l"}, {"id": "este", "r": [1645, 400, 1671, 500], "to": null, "toExit": null, "label": "CAMINO PELIGROSO", "side": "r"}, {"id": "salida", "r": [740, 914, 900, 940], "to": "patio", "toExit": "x2", "label": "PATIO FERROVIARIO", "side": "d"}]},
   arena_final: {"name": "INSTALACIÓN TEMPORAL", "img": "/a/m/arena_final.jpg", "mask": "/a/m/arena_final-mask.png", "w": 1672, "h": 941, "dark": 0.5, "lv": [44, 60], "spawn": [840, 700], "exits": [{"id": "rebelde", "r": [0, 380, 26, 540], "to": null, "toExit": null, "label": "CAMINO PELIGROSO", "side": "l"}, {"id": "ork", "r": [1645, 380, 1671, 540], "to": null, "toExit": null, "label": "CAMINO PELIGROSO", "side": "r"}, {"id": "salida", "r": [760, 914, 900, 940], "to": "bunker", "toExit": "x1", "label": "BÚNKER DE PUERTO MADERO", "side": "d"}]},
   teatro_int: {"name": "TEATRO · INTERIOR", "img": "/a/m/teatro_int.jpg", "mask": "/a/m/teatro_int-mask.png", "w": 1672, "h": 941, "dark": 0.48, "lv": [25, 33], "spawn": [850, 760], "exits": [{"id": "salida", "r": [780, 914, 920, 940], "to": "teatroAv", "toExit": "teatro_int", "label": "TEATRO SOBRE LA AVENIDA", "side": "d"}, {"id": "oeste", "r": [0, 660, 26, 760], "to": null, "toExit": null, "label": "CAMINO PELIGROSO", "side": "l"}, {"id": "este", "r": [1645, 660, 1671, 760], "to": null, "toExit": null, "label": "CAMINO PELIGROSO", "side": "r"}]},
-  pvp_azul: {"name": "CAMPAMENTO AZUL · REBELDES", "img": "/a/m/pvp_azul.jpg", "mask": "/a/m/pvp_azul-mask.png", "w": 1530, "h": 1028, "dark": 0.18, "lv": [1, 6], "spawn": [700, 460], "exits": [{"id": "portal", "r": [120, 140, 240, 360], "to": "pvp_centro", "toExit": "azul", "label": "PORTAL · RUINAS"}, {"id": "sur", "r": [650, 1001, 820, 1027], "to": "pvp_centro", "toExit": "azul", "label": "RUINAS Y BÚNKERES", "side": "d"}], "safeAll": true, "base": "rebel", "pvp": true},
-  pvp_rojo: {"name": "CAMPAMENTO ROJO · ORK", "img": "/a/m/pvp_rojo.jpg", "mask": "/a/m/pvp_rojo-mask.png", "w": 1530, "h": 1028, "dark": 0.18, "lv": [1, 6], "spawn": [700, 460], "exits": [{"id": "portal", "r": [1220, 540, 1340, 740], "to": "pvp_centro", "toExit": "rojo", "label": "PORTAL · RUINAS"}, {"id": "sur", "r": [640, 1001, 820, 1027], "to": "pvp_centro", "toExit": "rojo", "label": "RUINAS Y BÚNKERES", "side": "d"}], "safeAll": true, "base": "ork", "pvp": true},
-  pvp_centro: {"name": "RUINAS Y BÚNKERES · CENTRO", "img": "/a/m/pvp_centro.jpg", "mask": "/a/m/pvp_centro-mask.png", "w": 1672, "h": 941, "dark": 0.3, "lv": [1, 6], "spawn": [840, 400], "exits": [{"id": "rojo", "r": [20, 0, 100, 26], "to": "pvp_rojo", "toExit": "portal", "label": "CAMPAMENTO ROJO", "side": "u"}, {"id": "azul", "r": [1645, 700, 1671, 780], "to": "pvp_azul", "toExit": "portal", "label": "CAMPAMENTO AZUL", "side": "r"}], "pvp": true, "tiles": [[130, 150], [730, 60], [1390, 60], [470, 300], [1070, 430], [1570, 540], [400, 640]]},
+  pvp_azul: {"name": "CAMPAMENTO AZUL · REBELDES", "img": "/a/m/pvp_azul.jpg", "mask": "/a/m/pvp_azul-mask.png", "w": 1530, "h": 1028, "dark": 0.18, "lv": [1, 6], "spawn": [700, 460], "exits": [{"id": "portal", "r": [126, 156, 243, 315], "to": "pvp_centro", "toExit": "azul", "label": "PORTAL · RUINAS"}, {"id": "sur", "r": [639, 840, 840, 867], "to": "pvp_centro", "toExit": "azul", "label": "RUINAS Y BÚNKERES", "side": "d"}], "safeAll": true, "base": "rebel", "pvp": true, "occ": [[268, 210, 113, 116, 325, 0], [1146, 473, 320, 146, 618, 118], [59, 756, 589, 109, 864, 266], [821, 770, 595, 98, 867, 377]], "occTop": true},
+  pvp_rojo: {"name": "CAMPAMENTO ROJO · ORK", "img": "/a/m/pvp_rojo.jpg", "mask": "/a/m/pvp_rojo-mask.png", "w": 1530, "h": 1028, "dark": 0.18, "lv": [1, 6], "spawn": [700, 460], "exits": [{"id": "portal", "r": [1284, 654, 1338, 717], "to": "pvp_centro", "toExit": "rojo", "label": "PORTAL · RUINAS"}, {"id": "sur", "r": [645, 828, 843, 876], "to": "pvp_centro", "toExit": "rojo", "label": "RUINAS Y BÚNKERES", "side": "d"}], "safeAll": true, "base": "ork", "pvp": true, "occ": [[840, 218, 36, 48, 265, 0], [88, 472, 323, 193, 664, 50], [1106, 510, 291, 201, 710, 245], [64, 761, 594, 94, 854, 448], [836, 759, 602, 100, 858, 544]], "occTop": true},
+  pvp_centro: {"name": "RUINAS Y BÚNKERES · CENTRO", "img": "/a/m/pvp_centro.jpg", "mask": "/a/m/pvp_centro-mask.png", "w": 1672, "h": 941, "dark": 0.3, "lv": [1, 6], "spawn": [840, 400], "exits": [{"id": "rojo", "r": [813, 915, 921, 940], "to": "pvp_rojo", "toExit": "portal", "label": "CAMPAMENTO ROJO", "side": "u"}, {"id": "azul", "r": [1530, 93, 1590, 147], "to": "pvp_azul", "toExit": "portal", "label": "CAMPAMENTO AZUL", "side": "r"}], "pvp": true, "tiles": [[130, 150], [730, 60], [1390, 60], [470, 300], [1070, 430], [1570, 540], [400, 640]], "occ": [[636, 18, 49, 68, 85, 0], [501, 32, 144, 76, 107, 70], [1066, 46, 120, 66, 111, 148], [291, 65, 102, 49, 113, 216], [1205, 79, 69, 66, 144, 267], [827, 103, 180, 45, 147, 335], [196, 103, 72, 72, 174, 382], [393, 189, 63, 25, 213, 456], [0, 163, 70, 117, 279, 483], [700, 241, 255, 57, 297, 602], [1365, 233, 53, 66, 298, 661], [531, 261, 70, 79, 339, 729], [1062, 280, 72, 65, 344, 810], [309, 287, 56, 63, 349, 877], [1388, 312, 90, 49, 360, 942], [1343, 342, 30, 28, 369, 993], [1556, 361, 116, 120, 480, 1023], [983, 460, 54, 55, 514, 1145], [439, 447, 111, 89, 535, 1202], [548, 541, 226, 43, 583, 1293], [0, 472, 209, 130, 601, 1338], [1030, 572, 40, 40, 611, 1470], [1216, 583, 276, 48, 630, 1512], [166, 660, 120, 40, 699, 1562], [581, 681, 150, 65, 745, 1604], [940, 750, 122, 41, 790, 1671], [79, 731, 120, 68, 798, 1714], [1445, 527, 227, 307, 833, 1784], [1243, 793, 144, 41, 833, 2093], [405, 808, 166, 51, 858, 2136], [1113, 824, 84, 44, 867, 2189], [186, 830, 66, 77, 906, 2235], [278, 868, 125, 46, 913, 2314], [6, 791, 154, 129, 919, 2362], [956, 862, 161, 72, 933, 2493], [598, 799, 214, 141, 939, 2567]], "occTop": true},
   subte_arena: {"name": "ARENA SUBTERRÁNEA · SUBTE", "img": "/a/m/subte_arena.jpg", "mask": "/a/m/subte_arena-mask.png", "w": 1673, "h": 940, "dark": 0.5, "lv": [12, 20], "spawn": [840, 700], "exits": [{"id": "rebelde", "r": [0, 380, 26, 540], "to": null, "toExit": null, "label": "CAMINO PELIGROSO", "side": "l"}, {"id": "ork", "r": [1646, 380, 1672, 540], "to": null, "toExit": null, "label": "CAMINO PELIGROSO", "side": "r"}, {"id": "salida", "r": [760, 913, 900, 939], "to": "estOnce", "toExit": "x1", "label": "ESTACIÓN ONCE", "side": "d"}]},
   bar_rojo: {"name": "BAR DE LUZ ROJA", "img": "/a/m/bar_rojo.jpg", "mask": "/a/m/bar_rojo-mask.png", "w": 1673, "h": 940, "dark": 0.48, "lv": [18, 26], "spawn": [870, 550], "exits": [{"id": "salida", "r": [800, 913, 950, 939], "to": "plazaMayo", "toExit": "bar", "label": "PLAZA DE MAYO", "side": "d"}]},
   modulo2: {"name": "MÓDULO FERROVIARIO 2", "img": "/a/m/modulo2.jpg", "mask": "/a/m/modulo2-mask.png", "w": 1673, "h": 940, "dark": 0.5, "lv": [14, 22], "spawn": [780, 660], "exits": [{"id": "vias", "r": [620, 0, 820, 26], "to": null, "toExit": null, "label": "CAMINO PELIGROSO", "side": "u"}, {"id": "oeste", "r": [0, 240, 26, 320], "to": "patio", "toExit": "x3", "label": "PATIO FERROVIARIO", "side": "l"}, {"id": "este", "r": [1646, 400, 1672, 500], "to": null, "toExit": null, "label": "CAMINO PELIGROSO", "side": "r"}, {"id": "salida", "r": [740, 913, 900, 939], "to": null, "toExit": null, "label": "CAMINO PELIGROSO", "side": "d"}]},

diff --git a/www/cenizas.js b/www/cenizas.js
@@ -842,7 +842,7 @@
   /* ---------- personajes de la historia (solo MUNDO, quietos) ---------- */
   const NPCS = {}; Object.entries(MAPS).forEach(([k, m]) => { if (m.npcs) NPCS[k] = m.npcs.map(n => Object.assign({}, n, n.act === 'heal' ? { heal: n.fac, act: null } : {}, n.k === 'mercedes' ? { brz: 'ork' } : {}, n.act === 'brazalete' ? { brz: n.fac, act: null } : {})); });
   if (EXP) { NPCS.pvp_azul = [{ k: 'ex10', nm: 'INTENDENTE', line: 'Kit de combate. Elegí bien.', x: 640, y: 330, act: 'kit', fac: 'rebel' }]; NPCS.pvp_rojo = [{ k: 'instructor_ork', nm: 'INSTRUCTOR', line: 'Equipate, recluta.', x: 760, y: 330, act: 'kit', fac: 'ork' }]; }
-  const npcsHere = () => CAS.concat(NPCS[mapKey] || []).filter(n => !n.cada || ((minOfDay() + hashStr(n.k) % 60) % 60) < 20).concat(STORY && window.CZ_STORY ? CZ_STORY.npcs(mapKey) : []);
+  const npcsHere = () => CAS.concat(NPCS[mapKey] || []).filter(n => !n.cada || ((minOfDay() + hashStr(n.k) % 60) % 60) < 20 || (STORY && window.CZ_STORY && CZ_STORY.wants && CZ_STORY.wants(n.k))).concat(STORY && window.CZ_STORY ? CZ_STORY.npcs(mapKey) : []);
   function nearNpc() { let best = null, bd = 150; npcsHere().forEach(n => { const d = Math.hypot(n.x * WS - P.x, (n.y * WS - P.y) * 1.2); if (d < bd) { bd = d; best = n; } }); return best; }
   const healCd = {};
   /* el bando contrario no te atiende: te maldicen, te insultan o te lastiman */

diff --git a/www/cenizas-story.js b/www/cenizas-story.js
@@ -142,6 +142,7 @@ body.cine #st-dlg{display:block}
       c.beginPath(); c.moveTo(26, 0); c.lineTo(-12, -16); c.lineTo(-4, 0); c.lineTo(-12, 16); c.closePath(); c.stroke(); c.fill(); c.restore();
       const lx = px + Math.cos(ang) * (r + 44), ly = py + Math.sin(ang) * (r + 44) + 4; c.font = '12px TechMono, monospace'; c.textAlign = 'center'; c.lineWidth = 3; c.strokeStyle = 'rgba(0,0,0,.8)'; c.fillStyle = '#f0d696';
       const txt = (tg.lab || 'OBJETIVO') + ' · ' + Math.max(1, Math.round(dist / Math.max(.3, zoom) / 40)) + ' m'; c.strokeText(txt, lx, ly); c.fillText(txt, lx, ly); },
+    wants(k) { return !!(step && step.talk === k && (step.go || step.map) === A.mapKey); },
     redir, say, card,
     jump(m, s_) { S.m = m; S.s = s_; S.c = 0; mis = list[m]; step = mis.steps[s_]; spawned = {}; place = {}; prep(); objective(); return step; },
     get step() { return step; }, get list() { return list; }
